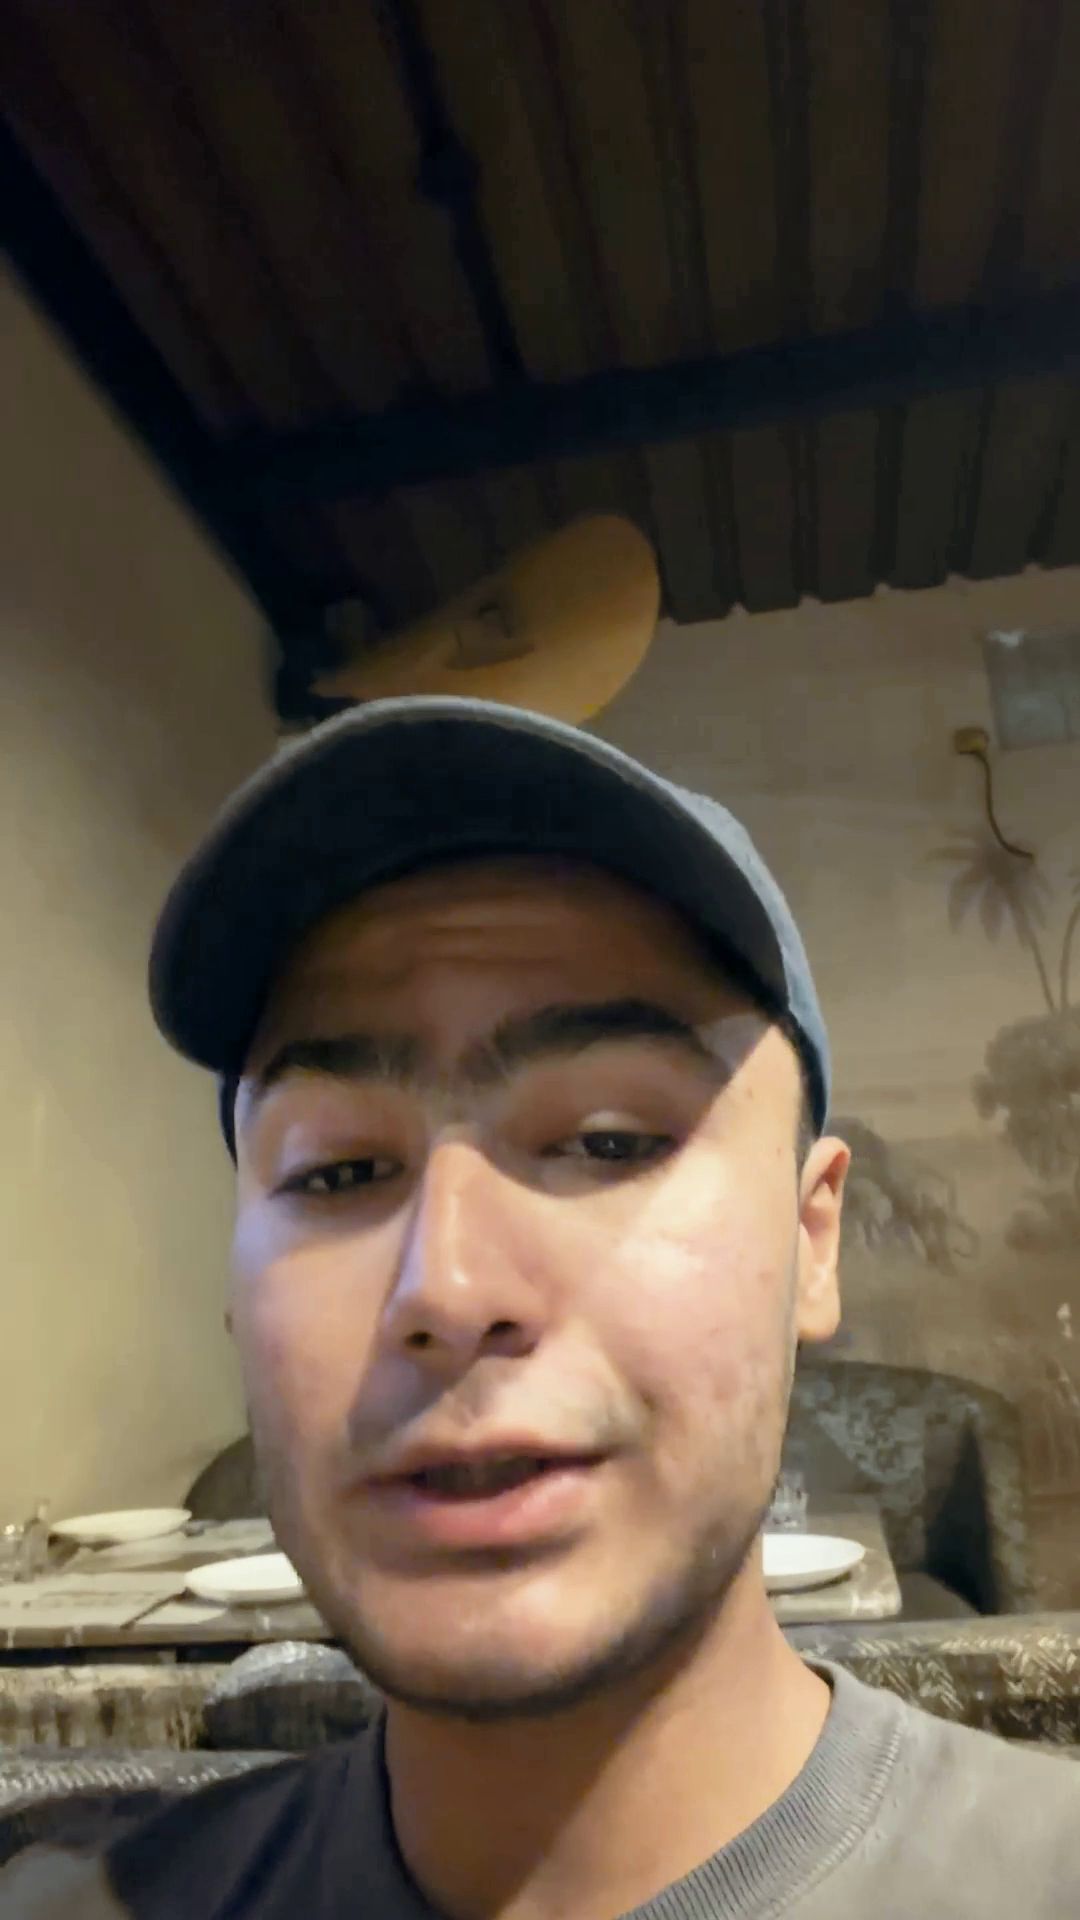
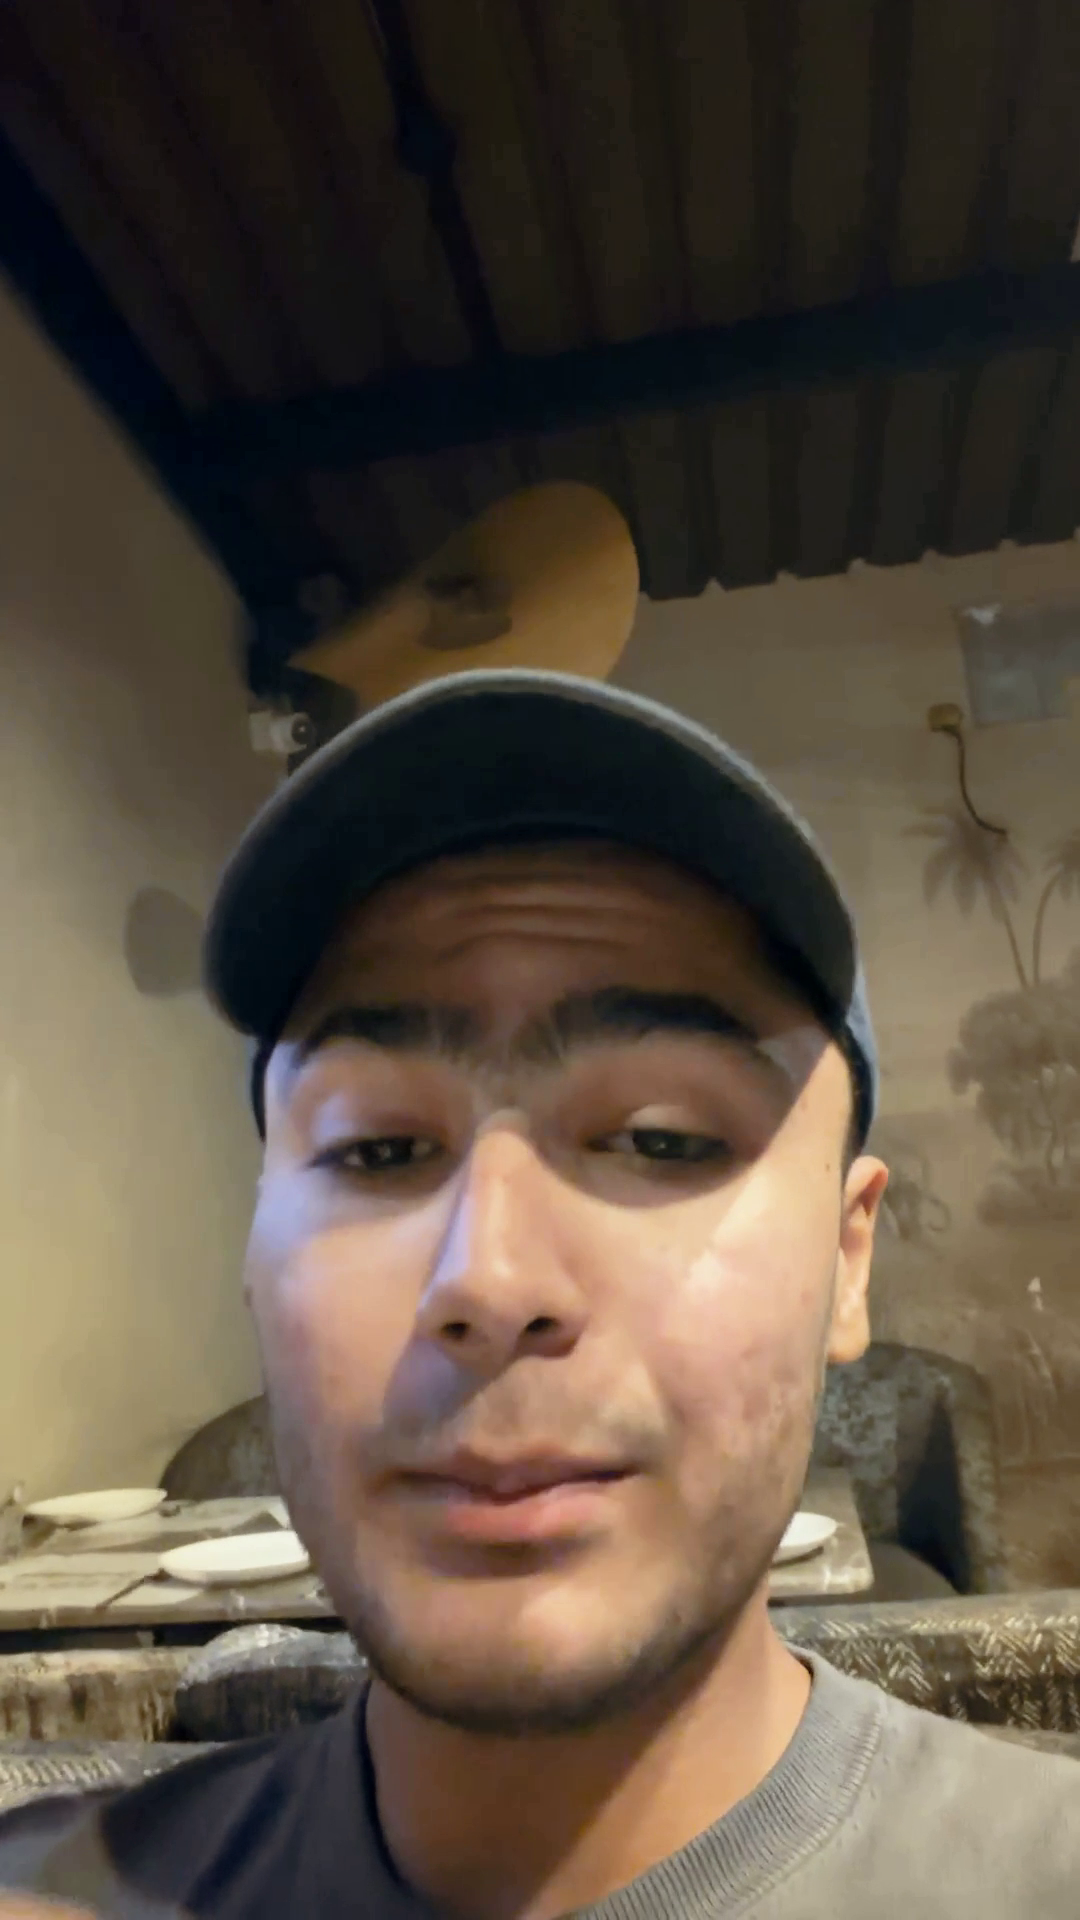
AnfaalNov cover: new frame (36.83 s) picked by face scoring, GrabCut cut-out
best_frame.py scores frames on open eyes, closed mouth, even light and sharpness.

Claude-Session: https://claude.ai/code/session_014Ja4wbTAT2uKsT8s5LCW9C

diff --git a/src/AnfaalNov/Cover.tsx b/src/AnfaalNov/Cover.tsx
@@ -8,9 +8,9 @@ import { MicroLabel, rnd } from "./kit";
 // big gold 3800 behind the cap, bright cut-out, bold headline on the chest.
 // Text stays inside the 3:4 grid crop (y 240–1680) and off the face.
 
-const FACE = { x: 470, y: 1256 }; // face centre in the 43.25 s frame
+const FACE = { x: 540, y: 1200 }; // face centre in the 36.83 s frame (eyes open, soft smile)
 const S = 0.6;
-const FACE_TO = 860;
+const FACE_TO = 840;
 const SUPPORT_Y = 1035;
 
 // stylised price path falling into 3800 (behind the person)

diff --git a/scripts/anfaal/best_frame.py b/scripts/anfaal/best_frame.py
@@ -1,0 +1,31 @@
+import sys, cv2, numpy as np, json
+S, src = sys.argv[1], sys.argv[2]
+face = cv2.CascadeClassifier(S + '/models/haar_face.xml'); eye = cv2.CascadeClassifier(S + '/models/haar_eye.xml')
+cap = cv2.VideoCapture(src); fps = cap.get(5); i = 0; res = []
+while True:
+    ok, fr = cap.read()
+    if not ok: break
+    if i % 2 == 0:
+        g = cv2.cvtColor(fr, cv2.COLOR_BGR2GRAY)
+        fs = face.detectMultiScale(cv2.resize(g, (540, 960)), 1.1, 6, minSize=(120, 120))
+        if len(fs):
+            x, y, w, h = [int(v * 2) for v in max(fs, key=lambda f: f[2] * f[3])]
+            fg = g[y:y + h, x:x + w]
+            sharp = cv2.Laplacian(fg, cv2.CV_64F).var()
+            eyes = eye.detectMultiScale(fg[: h // 2], 1.1, 6, minSize=(w // 10, w // 10))
+            mouth = fg[int(h * 0.68):int(h * 0.88), int(w * 0.3):int(w * 0.7)]
+            dark = float((mouth < np.percentile(fg, 12)).mean())   # open mouth = dark gap
+            L = fg[:, : w // 2].mean(); R = fg[:, w // 2:].mean()
+            even = 1 - abs(L - R) / max(L, R)
+            bright = fg.mean() / 255
+            score = min(len(eyes), 2) * 1.0 + even * 2.0 - dark * 6.0 + min(sharp, 400) / 400 + (0.5 - abs(bright - 0.55))
+            res.append(dict(t=round(i / fps, 2), score=round(score, 3), eyes=len(eyes), dark=round(dark, 3), even=round(even, 3), sharp=round(sharp), cx=x + w / 2, cy=y + h / 2, h=h))
+    i += 1
+res.sort(key=lambda r: -r['score'])
+# keep candidates at least 1 s apart
+pick = []
+for r in res:
+    if all(abs(r['t'] - p['t']) > 1.0 for p in pick): pick.append(r)
+    if len(pick) == 16: break
+json.dump(pick, open(sys.argv[3], 'w'))
+for p in pick: print(p)
